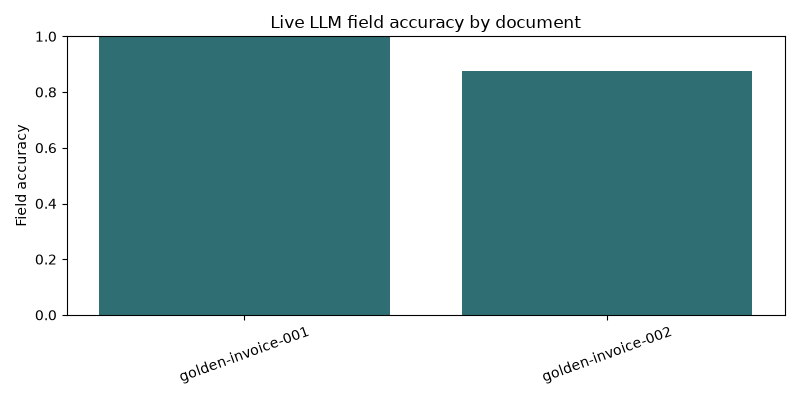
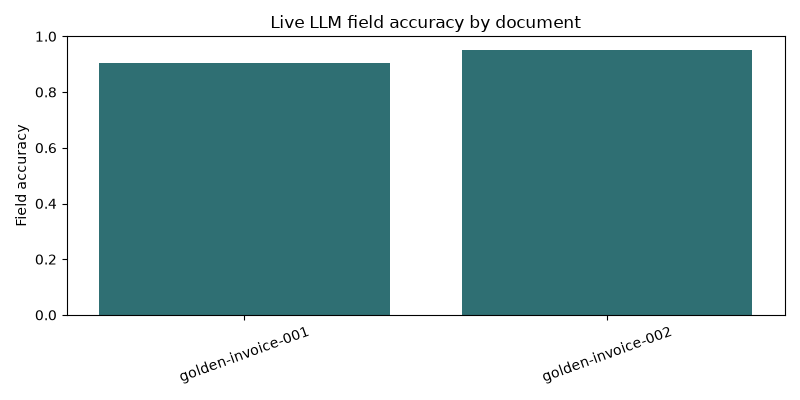
action job issue fix

Changed region(s): [[0.125, 0.09, 0.5, 0.18], [0.5625, 0.12, 0.9375, 0.18]]

diff --git a/outputs/llmops/live_eval_report.html b/outputs/llmops/live_eval_report.html
@@ -5,7 +5,7 @@
   <title>Live LLMOps Evaluation Report</title>
   <style>
     body { font-family: Arial, sans-serif; margin: 32px; color: #1f2933; }
-    .cards { display: grid; grid-template-columns: repeat(4, minmax(140px, 1fr)); gap: 12px; }
+    .cards { display: grid; grid-template-columns: repeat(6, minmax(140px, 1fr)); gap: 12px; }
     .card { border: 1px solid #d8dee4; border-radius: 6px; padding: 14px; }
     .metric { font-size: 28px; font-weight: 700; }
     table { border-collapse: collapse; width: 100%; margin-top: 20px; }
@@ -19,8 +19,10 @@
   <h1>Live LLMOps Evaluation Report</h1>
   <div class="cards">
     <div class="card"><div>Documents</div><div class="metric">2</div></div>
-    <div class="card"><div>Average Accuracy</div><div class="metric">93.75%</div></div>
-    <div class="card"><div>Average Latency</div><div class="metric">2823.53 ms</div></div>
+    <div class="card"><div>Average Accuracy</div><div class="metric">92.86%</div></div>
+    <div class="card"><div>Scalar Accuracy</div><div class="metric">88.46%</div></div>
+    <div class="card"><div>Line Item Accuracy</div><div class="metric">100.00%</div></div>
+    <div class="card"><div>Average Latency</div><div class="metric">5144.28 ms</div></div>
     <div class="card"><div>Meets Threshold</div><div class="metric">True</div></div>
   </div>
   <h2>Charts</h2>
@@ -31,12 +33,12 @@
     <thead>
       <tr>
         <th>Document</th><th>Source</th><th>Provider</th><th>Model</th>
-        <th>Accuracy</th><th>Latency ms</th><th>Validation</th><th>Fallback</th>
+        <th>Accuracy</th><th>Scalar</th><th>Line Items</th><th>Latency ms</th><th>Validation</th><th>Fallback</th>
         <th>Missing Fields</th>
       </tr>
     </thead>
-    <tbody><tr><td>golden-invoice-001</td><td>sample_invoice_text_001.txt</td><td>openai</td><td>gpt-4o-mini</td><td>100.00%</td><td>3554.45</td><td>valid</td><td></td><td></td></tr>
-<tr><td>golden-invoice-002</td><td>sample_invoice_text_002.txt</td><td>openai</td><td>gpt-4o-mini</td><td>87.50%</td><td>2092.61</td><td>valid</td><td></td><td>currency</td></tr></tbody>
+    <tbody><tr><td>golden-invoice-001</td><td>sample_invoice_text_001.txt</td><td>openai</td><td>gpt-4o-mini</td><td>90.48%</td><td>84.62%</td><td>100.00%</td><td>5153.09</td><td>valid</td><td></td><td>invoice_date, due_date</td></tr>
+<tr><td>golden-invoice-002</td><td>sample_invoice_text_002.txt</td><td>openai</td><td>gpt-4o-mini</td><td>95.24%</td><td>92.31%</td><td>100.00%</td><td>5135.47</td><td>valid</td><td></td><td>currency</td></tr></tbody>
   </table>
   <h2>Fallbacks and Errors</h2>
   <ul><li>No validation or provider errors recorded.</li></ul>

diff --git a/tests/unit/test_llmops_extraction.py b/tests/unit/test_llmops_extraction.py
@@ -21,6 +21,36 @@ def test_invalid_llm_json_uses_local_fallback():
     assert fields["fallback_reason"] == "gpt_parse_fallback_local"
 
 
+def test_model_json_normalizes_numeric_order_item_values_to_strings():
+    ocr_text = "Invoice Number: INV-1001"
+
+    fields = parse_model_json_or_fallback(
+        content=(
+            '{"invoice_number":"INV-1001","invoice_date":"2026-01-15","due_date":"2026-01-30",'
+            '"po_number":"PO-77","payment_terms":"Net 15","vendor_name":"Acme Supplies",'
+            '"vendor_tax_id":"GSTIN-123","customer_name":"Example Customer","customer_tax_id":"GSTIN-999",'
+            '"subtotal":"237.50","tax":"12.50","total":"250.00","currency":"USD",'
+            '"order_items":[{"line_no":1,"description":"Blue Widgets","qty":5,"unit":"pcs",'
+            '"unit_price":"47.50","net_amount":"237.50","tax_rate":"5%","gross_amount":"250.00"}]}'
+        ),
+        ocr_text=ocr_text,
+        fallback_reason="gpt_parse_fallback_local",
+    )
+
+    assert fields["order_items"] == [
+        {
+            "line_no": "1",
+            "description": "Blue Widgets",
+            "qty": "5",
+            "unit": "pcs",
+            "unit_price": "47.50",
+            "net_amount": "237.50",
+            "tax_rate": "5%",
+            "gross_amount": "250.00",
+        }
+    ]
+
+
 def test_local_baseline_extracts_invoice_v2_fields_and_order_items():
     ocr_text = (
         "Vendor: Acme Supplies\n"

diff --git a/llmops/local_extraction.py b/llmops/local_extraction.py
@@ -107,6 +107,12 @@ def empty_invoice_fields() -> dict[str, Any]:
     return fields
 
 
+def _coerce_model_value(value: Any) -> Any:
+    if value is None:
+        return None
+    return str(value)
+
+
 def _extract_order_items(text: str) -> list[dict[str, Any]]:
     items: list[dict[str, Any]] = []
     for line in text.splitlines():
@@ -123,7 +129,7 @@ def normalize_invoice_fields(parsed: dict[str, Any] | None) -> dict[str, Any]:
         return fields
 
     for key in SCALAR_FIELD_KEYS:
-        fields[key] = parsed.get(key)
+        fields[key] = _coerce_model_value(parsed.get(key))
 
     normalized_items: list[dict[str, Any]] = []
     raw_items = parsed.get("order_items")
@@ -131,7 +137,9 @@ def normalize_invoice_fields(parsed: dict[str, Any] | None) -> dict[str, Any]:
         for raw_item in raw_items:
             if not isinstance(raw_item, dict):
                 continue
-            normalized_items.append({key: raw_item.get(key) for key in ORDER_ITEM_FIELD_KEYS})
+            normalized_items.append(
+                {key: _coerce_model_value(raw_item.get(key)) for key in ORDER_ITEM_FIELD_KEYS}
+            )
     fields["order_items"] = normalized_items
 
     if "fallback_reason" in parsed:

diff --git a/tests/unit/test_llmops_live_pipeline.py b/tests/unit/test_llmops_live_pipeline.py
@@ -63,9 +63,9 @@ def test_openai_compatible_extractor_returns_valid_fields():
                 "currency": "USD",
                 "order_items": [
                     {
-                        "line_no": "1",
+                        "line_no": 1,
                         "description": "Blue Widgets",
-                        "qty": "5",
+                        "qty": 5,
                         "unit": "pcs",
                         "unit_price": "47.50",
                         "net_amount": "237.50",
@@ -88,6 +88,8 @@ def test_openai_compatible_extractor_returns_valid_fields():
     assert result.provider == "openai"
     assert result.model == "gpt-4o-mini"
     assert result.fields["invoice_number"] == "INV-1001"
+    assert result.fields["order_items"][0]["line_no"] == "1"
+    assert result.fields["order_items"][0]["qty"] == "5"
     assert result.validation_status == "valid"
     assert result.validation_errors == []
     assert result.fallback_reason is None